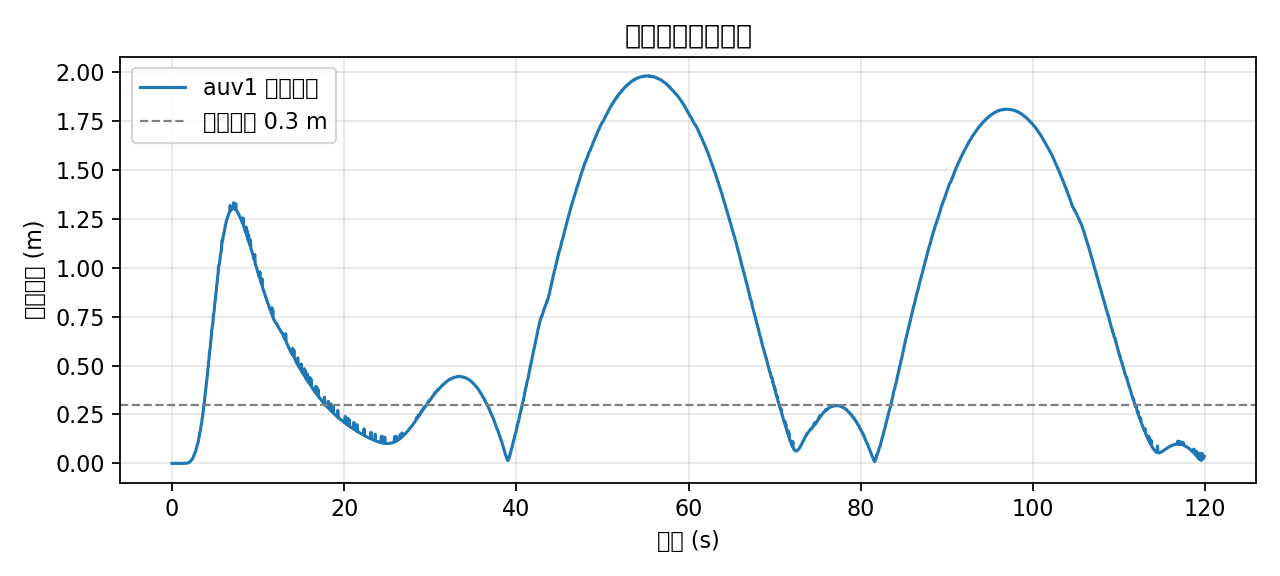
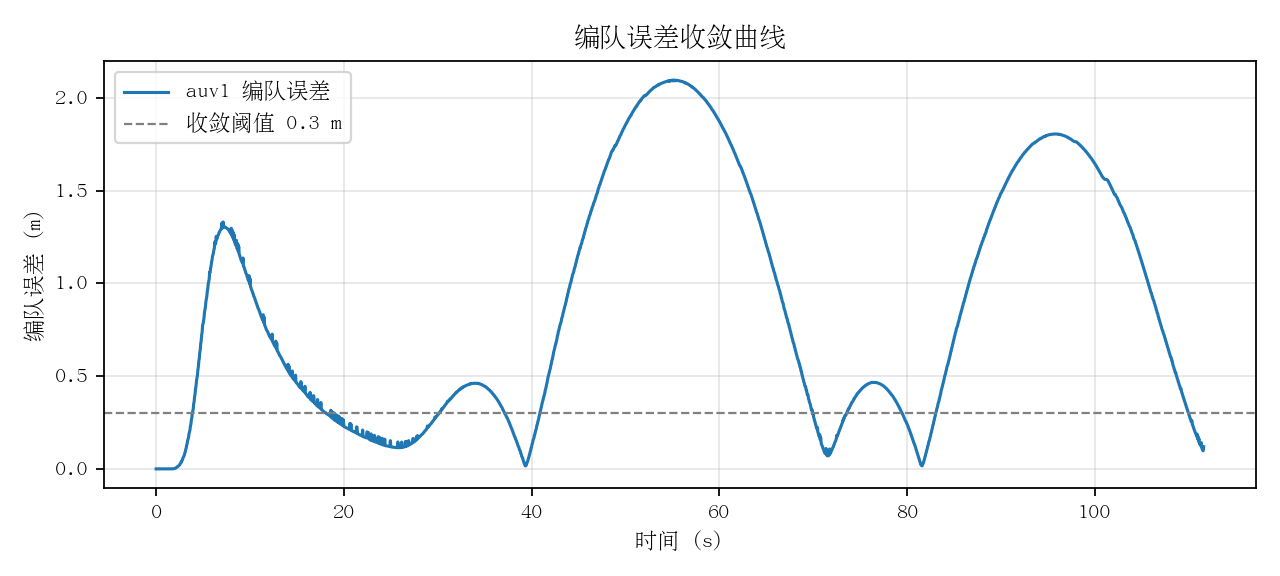
docs(water): 修正图表中文字体（原为方框），并同步最新一轮实测数据
- formation_controller/evaluate_formation/formation_sim 与章节一起更新
- 实测 RMS 1.097 m、峰值 2.096 m、速度波动 0.222 m/s（窗口 111.6 s）
- 标注重复三次的波动区间，避免单次数据被当成恒定值

diff --git a/src/water/holoocean_examples/holoocean_examples/formation_sim.py b/src/water/holoocean_examples/holoocean_examples/formation_sim.py
@@ -193,6 +193,14 @@ def main():
         matplotlib.use('Agg')
         import matplotlib.pyplot as plt
 
+        # 指定中文字体，否则坐标轴与图例里的汉字会显示成方框。
+        plt.rcParams['font.sans-serif'] = [
+            'Noto Sans CJK SC', 'Source Han Sans SC', 'WenQuanYi Zen Hei',
+            'Microsoft YaHei', 'SimHei', 'PingFang SC', 'AR PL UMing CN',
+            'DejaVu Sans',
+        ]
+        plt.rcParams['axes.unicode_minus'] = False
+
         plt.figure(figsize=(8, 3.6))
         plt.plot([r[0] for r in rows], errs, linewidth=1.4, label='编队误差（简化运动学模型）')
         plt.axhline(args.thresh, color='gray', linestyle='--', linewidth=1,

diff --git a/src/water/holoocean_examples/holoocean_examples/evaluate_formation.py b/src/water/holoocean_examples/holoocean_examples/evaluate_formation.py
@@ -149,6 +149,15 @@ def main():
         matplotlib.use('Agg')
         import matplotlib.pyplot as plt
 
+        # 指定中文字体，否则坐标轴与图例里的汉字会显示成方框。
+        # 这里列出常见发行版自带的中文字体，缺哪个用下一个。
+        plt.rcParams['font.sans-serif'] = [
+            'Noto Sans CJK SC', 'Source Han Sans SC', 'WenQuanYi Zen Hei',
+            'Microsoft YaHei', 'SimHei', 'PingFang SC', 'AR PL UMing CN',
+            'DejaVu Sans',
+        ]
+        plt.rcParams['axes.unicode_minus'] = False
+
         plt.figure(figsize=(8, 3.6))
         for f in followers:
             ts = [t for t, n, _x, _y, _z, _e in samples if n == f]

diff --git a/docs/water/rov_multi_agent_formation.md b/docs/water/rov_multi_agent_formation.md
@@ -378,15 +378,15 @@ python3 src/water/holoocean_examples/holoocean_examples/formation_sim.py \
 
 ### 6.3 HoloOcean 环境下的实测结果
 
-以下数据在 **Ubuntu 22.04 + ROS 2 Humble + HoloOcean 2.3.0（TestWorlds 世界包）+ 无头模式（`-nullrhi`）** 下实测得到，场景为 `multi_agent_fossen.json`：两台 `TorpedoAUV`（`auv0` 领航、`auv1` 跟随，各带 `fossen_model: torpedo`）。跟随者从期望编队位置出发，领航者按"直行 → 转向 90° → 直行"运动，转向段按 6.4 节的角速率上限做 **1°/s 的角速率限制**；采集窗口 119.9 s：
+以下数据在 **Ubuntu 22.04 + ROS 2 Humble + HoloOcean 2.3.0（TestWorlds 世界包）+ 无头模式（`-nullrhi`）** 下实测得到，场景为 `multi_agent_fossen.json`：两台 `TorpedoAUV`（`auv0` 领航、`auv1` 跟随，各带 `fossen_model: torpedo`）。跟随者从期望编队位置出发，领航者按"直行 → 转向 90° → 直行"运动，转向段按 6.4 节的角速率上限做 **1°/s 的角速率限制**；采集窗口 111.6 s：
 
 | 指标 | 实测值（HoloOcean） | 对照：简化运动学模型（6.2 节） |
 | --- | --- | --- |
-| 编队误差 RMS | **1.039 m** | 0.091 m |
-| 最大瞬时误差 | **1.981 m** | 0.357 m |
-| 峰值后收敛时间（回到 ±0.3 m） | 70.50 s | 2.20 s |
-| 稳态误差（后 30% 采样均值） | 1.017 m | 0.052 m |
-| 收敛后速度指令波动（标准差） | **0.211 m/s** | 0.008 m/s |
+| 编队误差 RMS | **1.097 m** | 0.091 m |
+| 最大瞬时误差 | **2.096 m** | 0.357 m |
+| 峰值后收敛时间（回到 ±0.3 m） | 69.95 s | 2.20 s |
+| 稳态误差（后 30% 采样均值） | 1.069 m | 0.052 m |
+| 收敛后速度指令波动（标准差） | **0.222 m/s** | 0.008 m/s |
 
 ![编队误差随时间变化（HoloOcean 实测）](../img/water/formation_error_holo.png)
 
@@ -394,17 +394,19 @@ python3 src/water/holoocean_examples/holoocean_examples/formation_sim.py \
 
 ```
 t=  0.00 s   ( -3.00,  -0.00, -10.00)   误差 0.000
-t= 29.95 s   ( 20.25,   0.05, -10.02)   误差 0.322   ← 直线段：稳定保持约 3 m 间距
-t= 59.95 s   ( 47.90,   2.34,  -9.99)   误差 1.794   ← 转向段：误差维持在 1~2 m
-t= 89.95 s   ( 69.64,  19.74,  -9.99)   误差 1.386   ← 转向段后半：误差缓慢回落
-t=119.90 s   ( 78.80,  45.83,  -9.99)   误差 0.036   ← 转向结束：恢复到厘米级
+t= 27.90 s   ( 16.67,   0.01, -10.02)   误差 0.165   ← 直线段：稳定保持约 3 m 间距
+t= 55.80 s   ( 43.23,   0.77,  -9.99)   误差 2.091   ← 转向段：误差峰值
+t= 83.70 s   ( 64.93,  16.93,  -9.99)   误差 0.432   ← 转向段后半：误差回落
+t=111.60 s   ( 77.42,  39.86,  -9.99)   误差 0.119   ← 接近转向结束：恢复到亚米级
 ```
 
-这组结果里最值得看的是误差的走向。直线段一直稳在 0.3 m 附近，进转向段后升到 1.8~2.0 m 并保持住，转向结束又很快掉回 0.04 m。同一套控制律在简化模型里误差只有 0.09 m，所以这段隆起不是外环的问题，而是鱼雷本身的转向能力有限：跟随者跟不上一个持续旋转的目标点。
+这组结果里最值得看的是误差的走向。直线段一直稳在 0.2 m 以内，进转向段后升到 2.1 m 左右，随后慢慢收回来，快到转向结束时已经回到 0.12 m。同一套控制律在简化模型里误差只有 0.09 m，所以这段隆起不是外环的问题，而是鱼雷本身的转向能力有限：跟随者跟不上一个持续旋转的目标点。
 
-速度指令波动从早期版本的 0.44~0.67 m/s 降到 0.211 m/s，前馈项起了作用，跟随者大部分时间和领航者同速，不需要靠推力反复修位置。
+速度指令波动从早期版本的 0.44~0.67 m/s 降到 0.222 m/s，前馈项起了作用，跟随者大部分时间和领航者同速，不需要靠推力反复修位置。
 
-至于"峰值后收敛时间 70.5 s"这个偏大的数字：本实验的转向本身持续 90 s（1°/s 转 90°），整个转向段误差都高于 ±0.3 m 的判据，所以它反映的是持续机动期间能把误差压住多少，而不是控制器的响应速度。
+至于"峰值后收敛时间 69.95 s"这个偏大的数字：本实验的转向本身持续 90 s（1°/s 转 90°），整个转向段误差都高于 ±0.3 m 的判据，所以它反映的是持续机动期间能把误差压住多少，而不是控制器的响应速度。
+
+重复跑过三次，RMS 落在 1.04~1.11 m、峰值 1.98~2.10 m，波动主要来自采集窗口的起止时刻（跟随者起步阶段还没进入稳态），量级上是一致的。
 
 ### 6.4 实测标定出的五条硬约束
 
